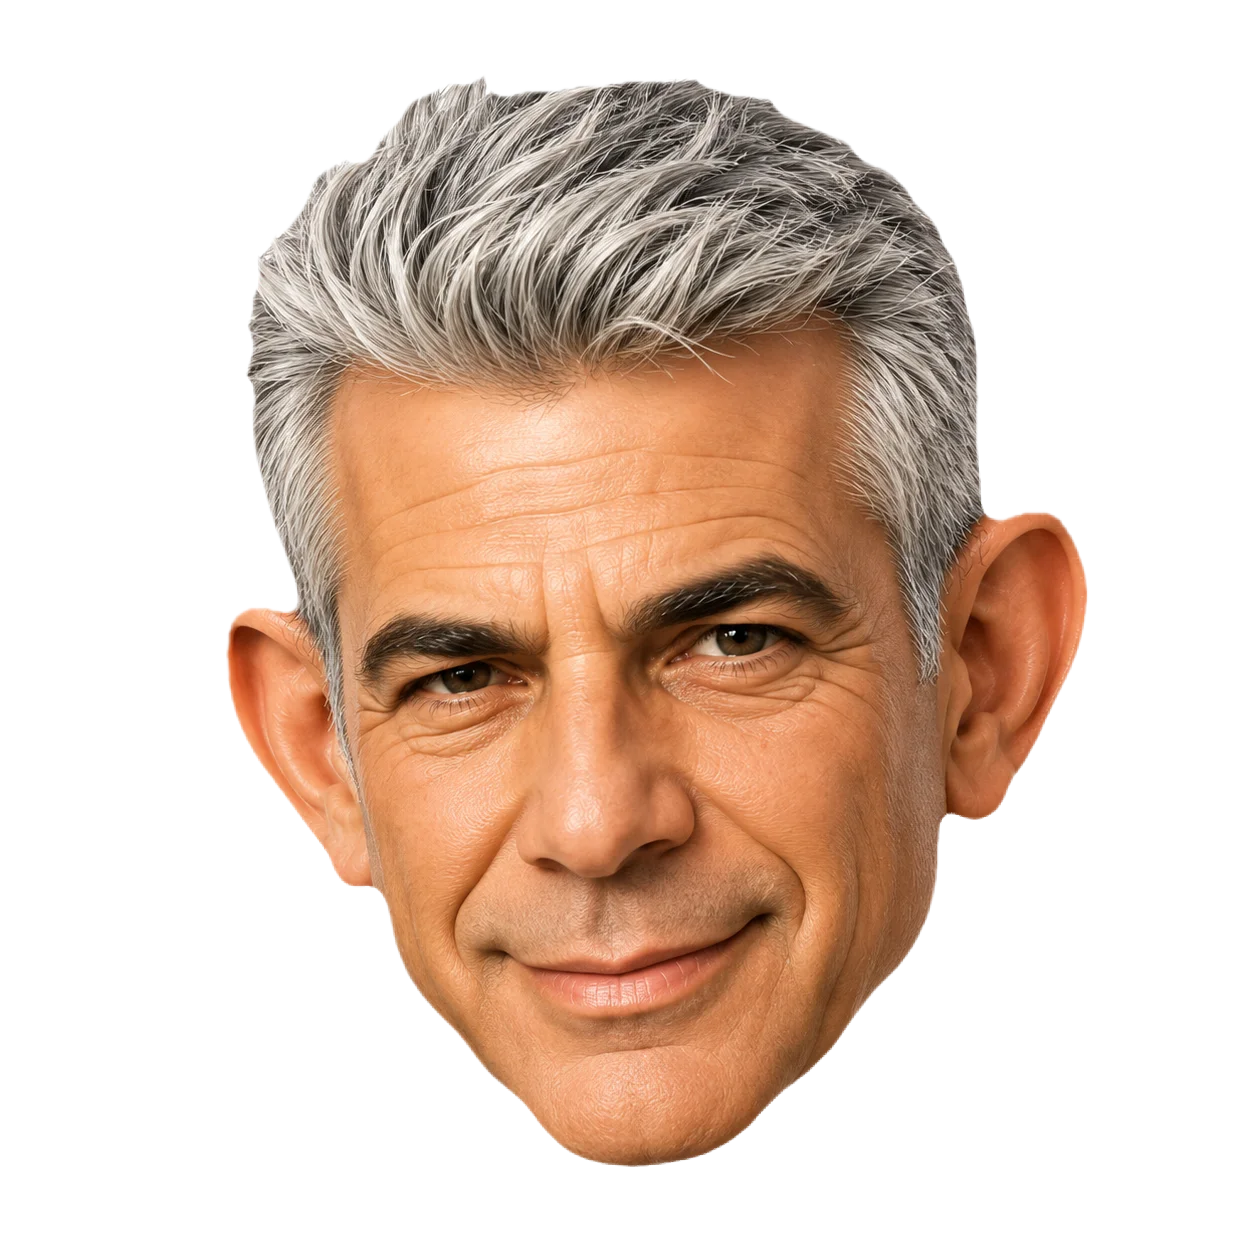
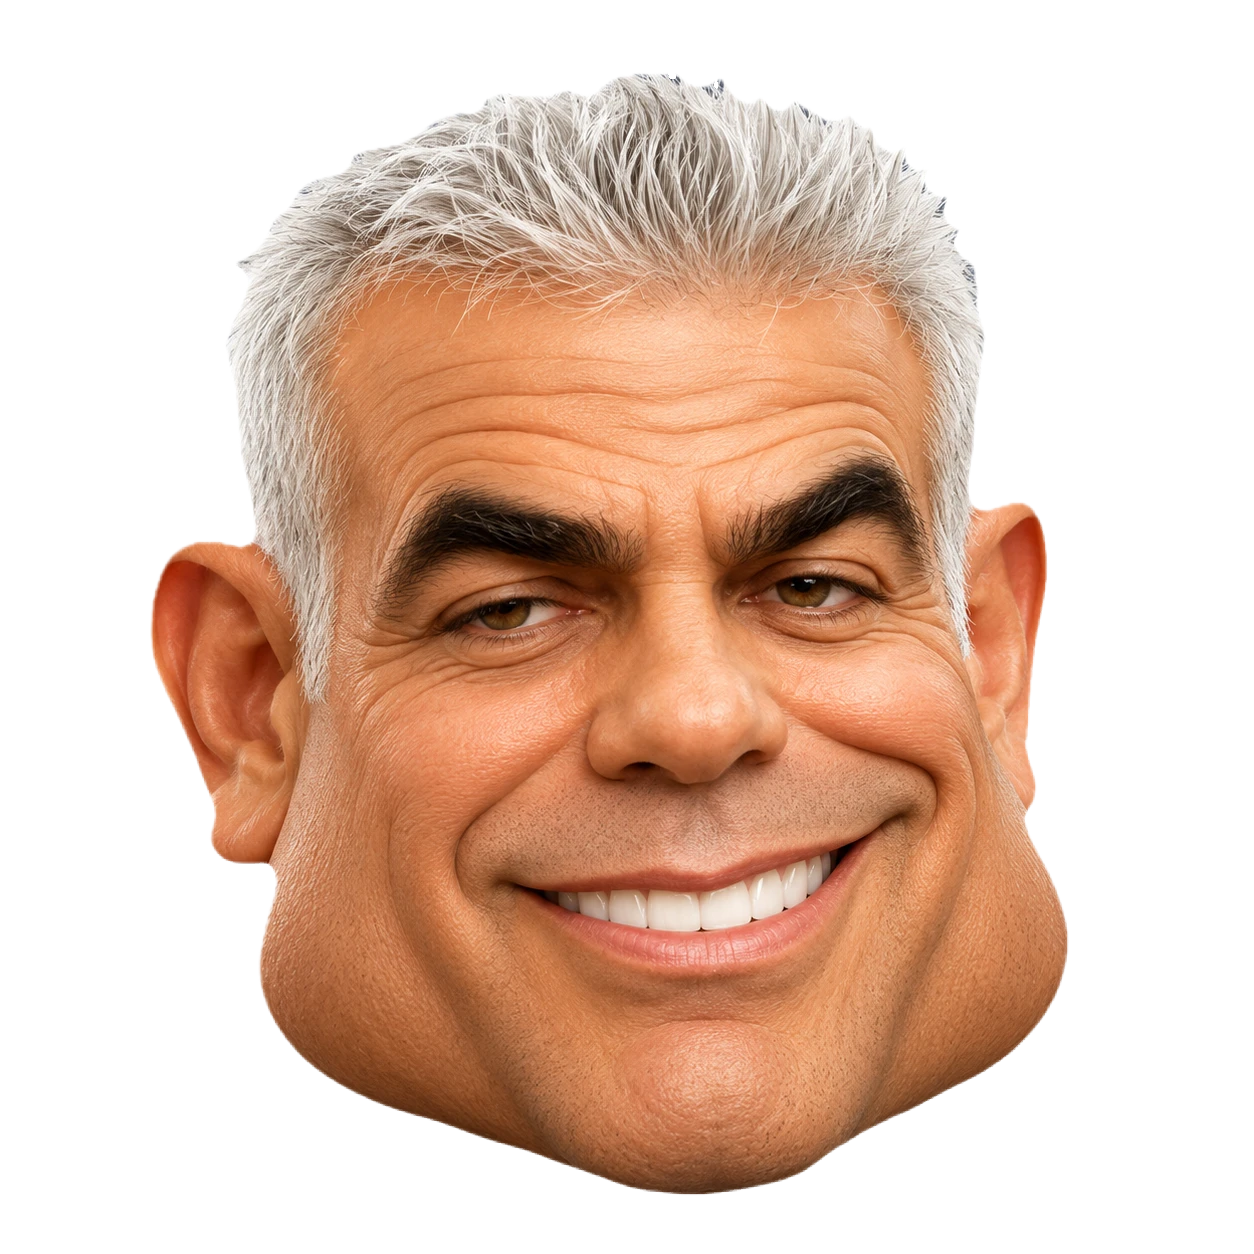
Add opponent taunt speech bubbles, fix legal-tile stacking, update Lapid portrait
Every 10-15s (while it's the viewer's own turn) a random living opponent
soldier pops a short political one-liner in a speech bubble for a couple of
seconds, drawn from a per-team joke bank (client/src/data/teases.ts). Purely
cosmetic and client-local, gated on myTurn and cleared the instant the turn
changes; excludes king/trap (a piece's kind is fog-of-war-hidden until
revealed, so "unrevealed" is treated as eligible, only a confirmed-revealed
king/trap is excluded).

Also: pieces now get a uniform z-index above tile-level decorations (fixes
the legal-move highlight sometimes rendering over a soldier depending on
row order), dropped the legal-tile gold border (the tint + arrows already
covey it), and replaced Lapid's head portrait with new art.

Claude-Session: https://claude.ai/code/session_01WvV3Mrf9RyfPmGcWGfh9xj

diff --git a/client/src/components/BoardGrid.css b/client/src/components/BoardGrid.css
@@ -36,6 +36,16 @@
   position: relative;
 }
 
+/* Normally cells rely purely on DOM order for stacking (a lower/nearer row's figure naturally
+   overflows on top of the row behind it — see .board-piece-wrap's own comment). A taunt bubble
+   breaks that assumption by overflowing *sideways* into a neighboring cell's horizontal space,
+   which would otherwise render underneath that neighbor's own (later-in-DOM) piece. Giving just
+   this one cell an explicit stacking context lifts its whole subtree (piece + bubble) above every
+   other "auto" cell regardless of row/column DOM order. */
+.board-cell-tease-active {
+  z-index: 10;
+}
+
 .board-tile {
   position: absolute;
   inset: 0;
@@ -52,14 +62,12 @@
 }
 
 .board-tile-legal {
-  box-shadow: 0 0 0 3px var(--gold) inset;
   background: rgba(212, 175, 55, 0.18);
 }
 
 /* Calls out the one tile/piece the cursor is actually over, among all the legal ones —
    e.g. during setup, so it's clear exactly which soldier a click would designate. */
 .board-tile-legal:hover:not(:disabled) {
-  box-shadow: 0 0 0 4px var(--gold) inset, 0 0 18px 2px rgba(212, 175, 55, 0.65);
   background: rgba(212, 175, 55, 0.4);
 }
 
@@ -247,9 +255,17 @@
 /* Sized to exactly one cell, sitting between .board-cell and .board-piece-wrap purely so
    "100%" means "one tile" for the jump animation below — .board-piece-wrap's own centering/
    anchoring inside it is completely unchanged. */
+/* z-index:2 (a plain, non-conditional value shared by every cell) guarantees every piece figure
+   renders above any tile-level decoration (legal-move highlight, arrow, hole) in any cell it
+   visually overlaps, regardless of row/DOM order — previously this relied purely on DOM order,
+   which only reliably favored the *front* row and left the relationship inconsistent depending
+   on which row a legal-target tile happened to be in. Since every piece shares this same value,
+   relative piece-vs-piece stacking (closer row on top of the row behind it) still resolves by DOM
+   order exactly as before — only the piece-vs-tile-decoration relationship changes. */
 .board-piece-anim {
   position: absolute;
   inset: 0;
+  z-index: 2;
   pointer-events: none;
 }
 
@@ -458,5 +474,73 @@
   }
   100% {
     transform: translate(calc(-50% + var(--mask-shift-x)), var(--mask-shift-y)) scale(1.3225) rotate(0deg);
+  }
+}
+
+/* Ambient taunt bubble (see useOpponentTease) — anchored to .board-piece-wrap (a position:absolute
+   box already spanning the whole figure), roughly at head height, poking out to whichever side
+   has room. Positioned via left/right (not transform), so the scale pop-in below never risks
+   dropping a base transform the way earlier translate-based pop bugs did this session. */
+.board-tease-bubble {
+  position: absolute;
+  /* Sits just below head height, with its tail (below) pointing up into the mouth — vertically
+     mirrored from a typical "above the head" bubble. */
+  top: calc(2% + 28px);
+  max-width: 120px;
+  width: max-content;
+  background: rgba(255, 255, 255, 0.7);
+  color: #1a1a2e;
+  font-size: 0.62rem;
+  font-weight: 700;
+  text-align: center;
+  line-height: 1.25;
+  padding: 5px 8px;
+  border-radius: 10px;
+  box-shadow: 0 3px 10px rgba(0, 0, 0, 0.4);
+  z-index: 10;
+  pointer-events: none;
+  animation: teaseBubblePop 0.25s cubic-bezier(0.34, 1.56, 0.64, 1);
+}
+
+.board-tease-bubble-right {
+  left: 100%;
+  margin-left: 6px;
+  transform-origin: top left;
+}
+
+.board-tease-bubble-right::after {
+  content: '';
+  position: absolute;
+  bottom: 100%;
+  left: 10px;
+  border: 6px solid transparent;
+  border-bottom-color: rgba(255, 255, 255, 0.7);
+  border-top: 0;
+}
+
+.board-tease-bubble-left {
+  right: 100%;
+  margin-right: 6px;
+  transform-origin: top right;
+}
+
+.board-tease-bubble-left::after {
+  content: '';
+  position: absolute;
+  bottom: 100%;
+  right: 10px;
+  border: 6px solid transparent;
+  border-bottom-color: rgba(255, 255, 255, 0.7);
+  border-top: 0;
+}
+
+@keyframes teaseBubblePop {
+  from {
+    transform: scale(0.5);
+    opacity: 0;
+  }
+  to {
+    transform: scale(1);
+    opacity: 1;
   }
 }

diff --git a/client/src/hooks/useOpponentTease.ts b/client/src/hooks/useOpponentTease.ts
@@ -1,0 +1,92 @@
+import { useEffect, useRef, useState } from 'react';
+import type { ClientPieceView, Team } from 'shared';
+import { randomTease } from '../data/teases';
+
+export interface TeaseState {
+  pieceId: string;
+  text: string;
+}
+
+const INTERVALS_MS = [10000, 15000];
+const DISPLAY_MS = 2000;
+const RETRY_MS = 1000;
+
+interface UseOpponentTeaseParams {
+  /** Whether the tease scheduler should be running at all (true throughout 'playing', false
+   * once the game is over or the screen unmounts). */
+  active: boolean;
+  myTurn: boolean;
+  opponentPieces: ClientPieceView[];
+  opponentTeam: Team;
+}
+
+/**
+ * Ambient board flavor: every so often, while it's the viewer's own turn, a random living
+ * opponent piece pops a short political one-liner in a speech bubble for a couple of seconds.
+ * Purely cosmetic and client-local — not synced with the opponent's client, never touches game
+ * state — so this is a plain wall-clock scheduler, not server-driven.
+ *
+ * Individual turns are short (TURN_SECONDS = 20) and alternate constantly, so requiring that many
+ * *continuous* seconds of my-turn could easily never occur naturally. Instead the clock runs
+ * continuously regardless of whose turn it is, and each scheduled check is a gate: fire only if
+ * it's currently my turn, otherwise keep retrying every ~1s (without disturbing the interval
+ * alternation) until it is.
+ */
+export function useOpponentTease({ active, myTurn, opponentPieces, opponentTeam }: UseOpponentTeaseParams): TeaseState | null {
+  const [tease, setTease] = useState<TeaseState | null>(null);
+
+  const myTurnRef = useRef(myTurn);
+  myTurnRef.current = myTurn;
+  const opponentPiecesRef = useRef(opponentPieces);
+  opponentPiecesRef.current = opponentPieces;
+  const opponentTeamRef = useRef(opponentTeam);
+  opponentTeamRef.current = opponentTeam;
+
+  useEffect(() => {
+    if (!active) return;
+
+    let cancelled = false;
+    let timer: ReturnType<typeof setTimeout>;
+    let clearTimer: ReturnType<typeof setTimeout> | undefined;
+    let intervalIndex = 0;
+
+    const attempt = () => {
+      if (cancelled) return;
+      const pieces = opponentPiecesRef.current;
+      if (myTurnRef.current && pieces.length > 0) {
+        const piece = pieces[Math.floor(Math.random() * pieces.length)];
+        const text = randomTease(opponentTeamRef.current);
+        // A longer line needs a moment more to actually read — half a second extra past 4 words.
+        const wordCount = text.split(/\s+/).filter(Boolean).length;
+        const displayMs = DISPLAY_MS + (wordCount > 4 ? 500 : 0);
+        setTease({ pieceId: piece.id, text });
+        clearTimer = setTimeout(() => {
+          if (!cancelled) setTease(null);
+        }, displayMs);
+
+        const nextDelay = INTERVALS_MS[intervalIndex % INTERVALS_MS.length];
+        intervalIndex += 1;
+        timer = setTimeout(attempt, nextDelay);
+      } else {
+        timer = setTimeout(attempt, RETRY_MS);
+      }
+    };
+
+    timer = setTimeout(attempt, INTERVALS_MS[0]);
+
+    return () => {
+      cancelled = true;
+      clearTimeout(timer);
+      if (clearTimer) clearTimeout(clearTimer);
+    };
+    // eslint-disable-next-line react-hooks/exhaustive-deps
+  }, [active]);
+
+  // A tease already showing must not linger into the opponent's turn — the 2s display timer
+  // above only cancels it early, it doesn't dismiss it the instant the turn changes.
+  useEffect(() => {
+    if (!myTurn) setTease(null);
+  }, [myTurn]);
+
+  return tease;
+}

diff --git a/client/src/components/BoardGrid.tsx b/client/src/components/BoardGrid.tsx
@@ -57,6 +57,9 @@ interface BoardGridProps {
   /** The single most recently "won" tile and whose color it's highlighted in — always exactly
    * one tile, overwritten whenever another move (or a battle/trap override) claims a new one. */
   lastMove?: { team: Team; position: Position } | null;
+  /** The one opponent piece (if any) currently popping an ambient taunt speech bubble — set by
+   * GameBoard's useOpponentTease for a couple of seconds at a time, purely cosmetic. */
+  tease?: { pieceId: string; text: string } | null;
 }
 
 const TILT_DURATION_MS = 700; // matches the longer of the two tilt animations (pieceTilt, 0.7s)
@@ -136,6 +139,7 @@ export function BoardGrid({
   trapEvent,
   clashEvent,
   lastMove,
+  tease,
 }: BoardGridProps) {
   const cells: { display: Position; actual: Position }[] = [];
   for (let row = 0; row < BOARD_ROWS; row++) {
@@ -344,9 +348,10 @@ export function BoardGrid({
           const arrowDir = legal && selectedPosition ? arrowDirection(selectedPosition, actual, team) : null;
           const lastMoveTeam: Team | null =
             lastMove && samePos(actual, lastMove.position) ? lastMove.team : null;
+          const hasTease = tease?.pieceId === piece?.id;
 
           return (
-            <div key={key} className="board-cell">
+            <div key={key} className={`board-cell${hasTease ? ' board-cell-tease-active' : ''}`}>
               <button
                 type="button"
                 className={[
@@ -392,6 +397,11 @@ export function BoardGrid({
                       selected={isSelected?.(piece) ?? false}
                       mirrorAtEdge={display.col === 0}
                     />
+                    {tease?.pieceId === piece.id && (
+                      <div className={`board-tease-bubble ${display.col <= 1 ? 'board-tease-bubble-left' : 'board-tease-bubble-right'}`}>
+                        {tease.text}
+                      </div>
+                    )}
                   </div>
                 </div>
               )}

diff --git a/client/src/components/GameBoard.tsx b/client/src/components/GameBoard.tsx
@@ -3,6 +3,7 @@ import type { ClientGameView, ClientPieceView, GameEvent, Position, RPSHand, Tea
 import { BOARD_COLS, BOARD_ROWS, TURN_SECONDS } from 'shared';
 import { TEAM_THEME } from '../data/theme';
 import { gameSeed } from '../data/characterAssets';
+import { useOpponentTease } from '../hooks/useOpponentTease';
 import { CountdownRing } from './CountdownRing';
 import { ScoreHeader } from './ScoreHeader';
 import { CombatOverlay } from './CombatOverlay';
@@ -51,6 +52,16 @@ export function GameBoard({ view, team, onMove, onTiePick, onExit }: GameBoardPr
   const myTurn = view.turn === team && !view.tieBreak;
   const alivePieces = useMemo(() => view.pieces.filter((p) => p.alive), [view.pieces]);
   const selected = alivePieces.find((p) => p.id === selectedId) ?? null;
+  const opponentTeam: Team = team === 'red' ? 'blue' : 'red';
+  // Only ordinary soldiers get a tease bubble — a king or trap "talking" would look wrong. An
+  // opponent piece's `kind` is fog-of-war-hidden (undefined) until it's actually revealed in
+  // combat, at which point it's indistinguishable from a soldier's own disguise anyway, so
+  // "undefined" is included here too — only a *confirmed* revealed king/trap is excluded.
+  const opponentSoldiers = useMemo(
+    () => alivePieces.filter((p) => p.team === opponentTeam && p.kind !== 'king' && p.kind !== 'trap'),
+    [alivePieces, opponentTeam],
+  );
+  const tease = useOpponentTease({ active: true, myTurn, opponentPieces: opponentSoldiers, opponentTeam });
 
   useEffect(() => {
     setSelectedId(null);
@@ -235,6 +246,7 @@ export function GameBoard({ view, team, onMove, onTiePick, onExit }: GameBoardPr
             trapEvent={trapEvent}
             clashEvent={clashEvent}
             lastMove={view.lastMove}
+            tease={tease}
           />
         </div>
 

diff --git a/client/src/data/teases.ts b/client/src/data/teases.ts
@@ -1,0 +1,48 @@
+import type { Team } from 'shared';
+
+// Usable by either team's pieces, on top of their own team-specific bank below.
+const GENERAL_TEASES = ['אין לי אבן אחרת!'];
+
+const COALITION_TEASES = [
+  'אבניהו - עושים שלום בטוח',
+  'אל תתנו להם אבנים!',
+  'פרס יחלק את מספריים',
+  'תנו לאבן לכסח',
+  'רק אבן!',
+  'אבן חזקה - ישראל חזקה',
+  'ישראל חזקה עם מספריים',
+  'ימין חזק, אבן חזקה',
+  'המספריים הם חלק מגוש השמאל',
+  'נייר! חזק מול כל השמאל',
+  'צריך לגזור את חווארה',
+  'אין מספריים, אין פיגועים',
+  'נ ני ניי נייר מאומן',
+  'אבנים? מספריים? יהודים! אחים! לוחמים!',
+  'השמאל שכח מה זה להיות נייר',
+  'אבן זה כאן',
+];
+
+const OPPOSITION_TEASES = [
+  'אתה גזור, אתה אשם',
+  'תפסיקו לגזור עלינו קופונים',
+  'דור שלם דורש נייר',
+  'אבנים נמאסתם!',
+  'רק לא אבן',
+  'חייבים ממשלה עם אבן',
+  'לא שמאל. לא ימין. נייר!',
+  'נייר, אתה חסר',
+  'ביחד נגזור!',
+  'שמאל חלש? נייר חלש!',
+  'עוטפים את המדינה בנייר',
+];
+
+// blue = coalition, red = opposition (matches TEAM_THEME throughout the app).
+const TEASES_BY_TEAM: Record<Team, string[]> = {
+  blue: [...COALITION_TEASES, ...GENERAL_TEASES],
+  red: [...OPPOSITION_TEASES, ...GENERAL_TEASES],
+};
+
+export function randomTease(team: Team): string {
+  const pool = TEASES_BY_TEAM[team];
+  return pool[Math.floor(Math.random() * pool.length)];
+}

diff --git a/client/src/version.ts b/client/src/version.ts
@@ -1,2 +1,2 @@
 /** X.YY.ZZ — YY jumps by 10 for a big build/feature milestone, ZZ advances by 1 every deploy. */
-export const APP_VERSION = '1.10.03';
+export const APP_VERSION = '1.20.00';
